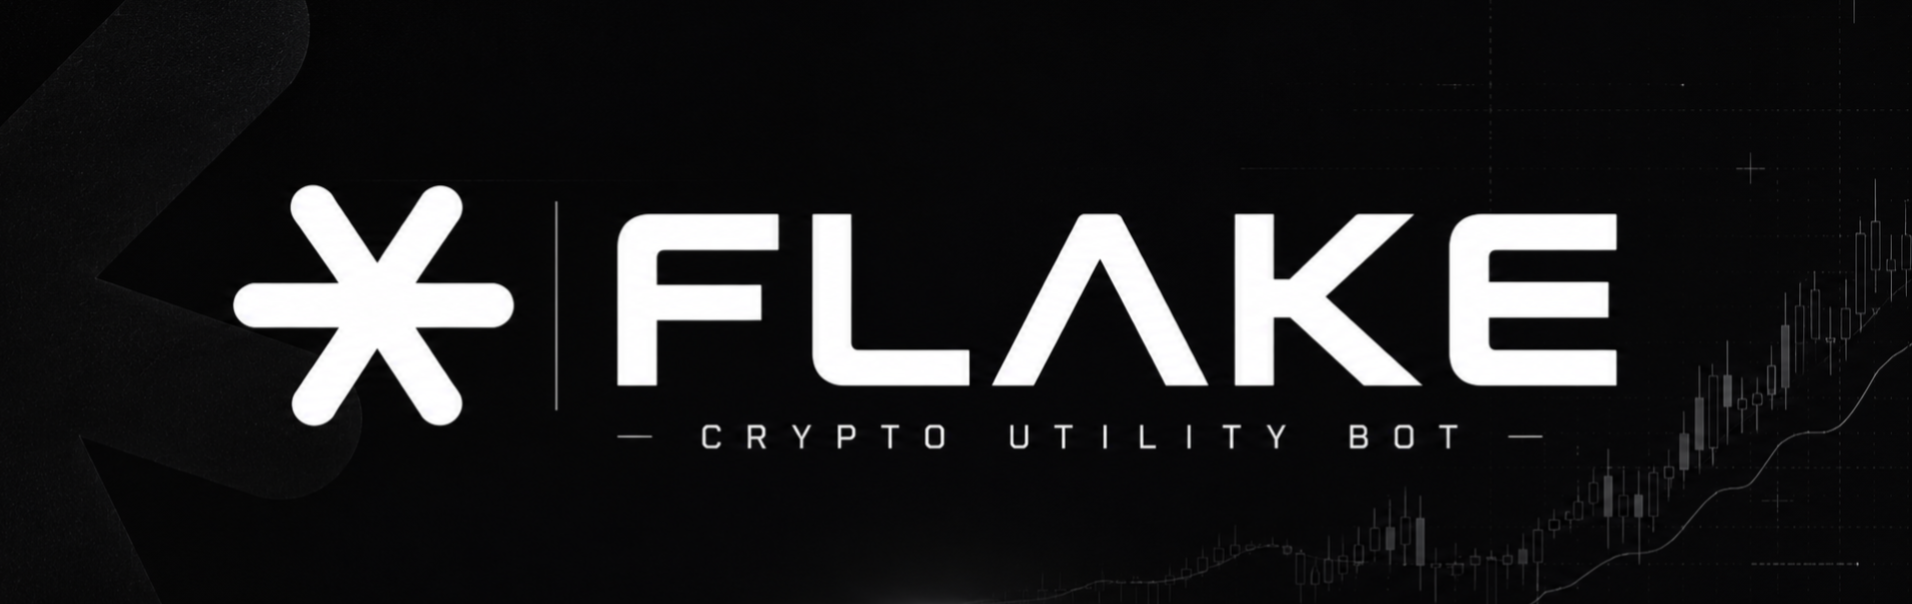
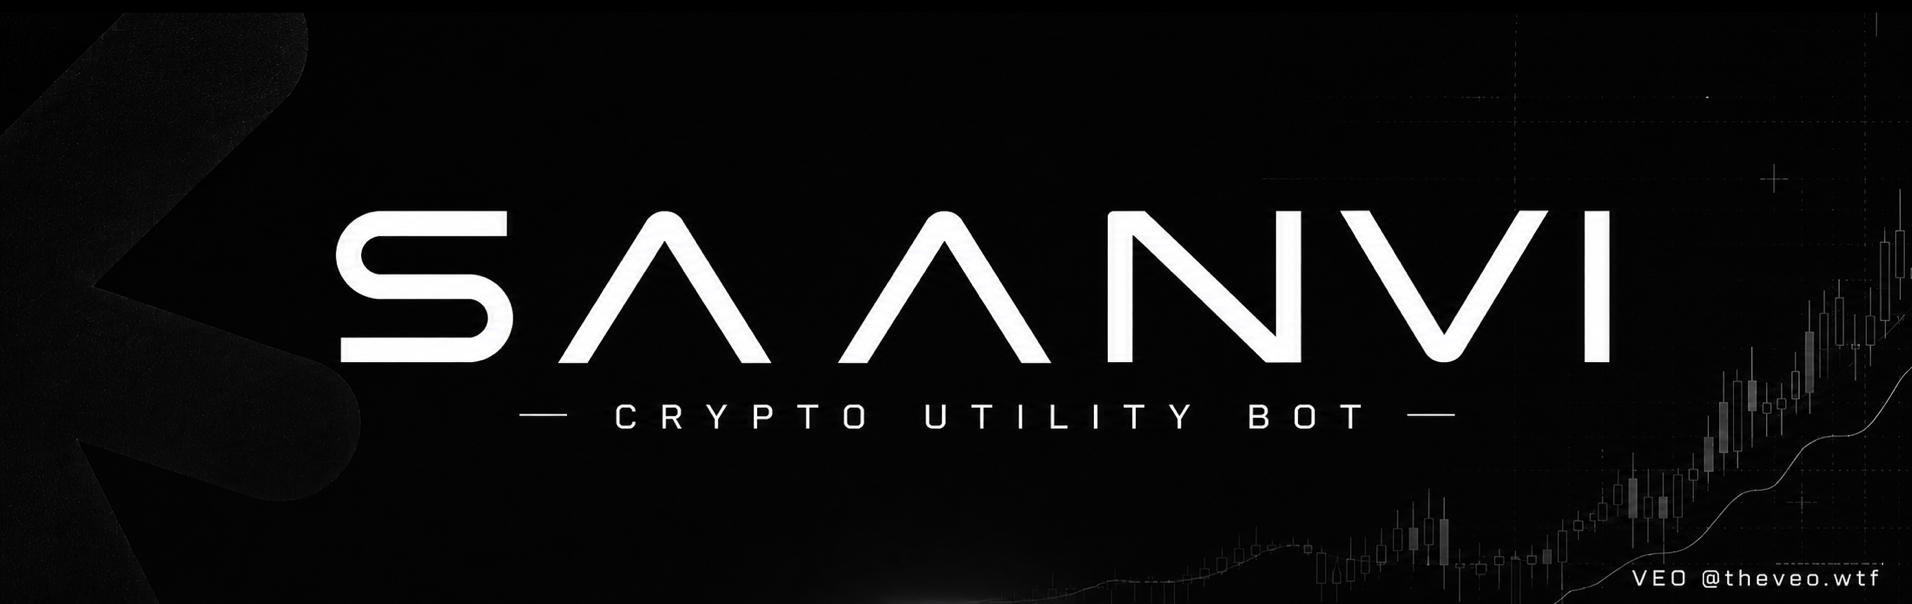
Pull commands update

Changed region(s): [[0.1234, 0.298, 0.864, 0.745], [0.7097, 0.3278, 1.0, 1.0], [0.9566, 0.6854, 0.9874, 0.7152]]

diff --git a/src/events/discord/guild/Prefixcmd.js b/src/events/discord/guild/Prefixcmd.js
@@ -1,12 +1,9 @@
 import {
         ContainerBuilder,
         TextDisplayBuilder,
-        ButtonBuilder,
-        ButtonStyle,
         MessageFlags,
         SeparatorBuilder,
         SeparatorSpacingSize,
-        ActionRowBuilder,
         MediaGalleryBuilder,
         MediaGalleryItemBuilder,
         AttachmentBuilder,
@@ -47,12 +44,6 @@ const mentionSeparator = new SeparatorBuilder()
         .setSpacing(SeparatorSpacingSize.Small)
         .setDivider(true);
 const mentionContent = new TextDisplayBuilder();
-const mentionButtons = new ActionRowBuilder().addComponents(
-        new ButtonBuilder()
-                .setLabel('Support')
-                .setURL(config.links?.supportServer || 'https://discord.gg')
-                .setStyle(ButtonStyle.Link),
-);
 
 const sendDM = async (user, title, description, client) => {
         if (!user || !title || !description || !client) return false;
@@ -200,7 +191,7 @@ const handleMentionOnly = async (message, client, guildPrefixes) => {
                 mentionContainer.components.length = 0;
                 mentionContainer.setAccentColor(0xffffff);
                 mentionContent.data.content =
-                        `${emoji?.string || ''} **Bot Supports** → \`/\`\n` +
+                        `${emoji?.string || ''} **Saanvi uses** → \`/\`\n` +
                         `-# For seeing all commands \`/help\``;
                 mentionContainer
                         .addMediaGalleryComponents(
@@ -208,8 +199,7 @@ const handleMentionOnly = async (message, client, guildPrefixes) => {
                                         new MediaGalleryItemBuilder().setURL('attachment://help_banner.png'),
                                 ),
                         )
-                        .addTextDisplayComponents(mentionContent)
-                        .addActionRowComponents(mentionButtons);
+                        .addTextDisplayComponents(mentionContent);
 
                 await message
                         .reply({

diff --git a/src/utils/permissionHandler.js b/src/utils/permissionHandler.js
@@ -239,14 +239,17 @@ export const validateCommand = async (ctx, command) => {
                         };
                 }
 
-                let member;
-                try {
-                        member = await guild.members.fetch(user.id);
-                } catch {
-                        return {
-                                valid: false,
-                                error: { title: 'Member Not Found', description: 'Could not fetch your member data.' },
-                        };
+                let member = ctx.interaction?.member || ctx.message?.member || null;
+
+                if (!member && guild.members?.fetch) {
+                        try {
+                                member = await guild.members.fetch(user.id);
+                        } catch {
+                                return {
+                                        valid: false,
+                                        error: { title: 'Member Not Found', description: 'Could not fetch your member data.' },
+                                };
+                        }
                 }
 
                 if (!member) {

diff --git a/src/commands/meta/invite.js b/src/commands/meta/invite.js
@@ -15,13 +15,13 @@ class InviteCommand extends Command {
 	constructor() {
 		super({
 			name: 'invite',
-			description: 'Invite Flake to your server or install as an app',
+			description: 'Invite Saanvi to your server or install as an app',
 			cooldown: 5,
 			enabledSlash: true,
 			shouldNotDefer: true,
 			slashData: {
 				name: 'invite',
-				description: 'Invite Flake to your server or install as an app',
+				description: 'Invite Saanvi to your server or install as an app',
 			},
 		});
 	}
@@ -31,7 +31,7 @@ class InviteCommand extends Command {
 			.setAccentColor(0xffffff)
 			.addTextDisplayComponents(
 				new TextDisplayBuilder().setContent(
-					'## Invite Me\n-# Use the buttons below to invite me to your server or install me as an application',
+					'## Invite Saanvi\n-# Use the buttons below to invite me to your server or install me as an application',
 				),
 			)
 			.addSeparatorComponents(

diff --git a/src/commands/meta/help.js b/src/commands/meta/help.js
@@ -77,12 +77,11 @@ const PAGES = [
         },
         {
                 title: '### Utility',
-                commands: ['ping', 'stats', 'invite', 'support'],
+                commands: ['ping', 'stats', 'invite'],
                 descriptions: {
                         ping:    'check websocket, database and average latency',
                         stats:   'view bot uptime, servers, users and command count',
-                        invite:  'invite Flake to your server or install as an app',
-                        support: 'get a link to the support server',
+                        invite:  'invite Saanvi to your server or install as an app',
                 },
         },
 ];

diff --git a/src/config/config.js b/src/config/config.js
@@ -16,11 +16,10 @@ export const config = {
                 warn: [255, 190, 120],
         },
         links: {
-                supportServer: 'https://discord.gg/aerox',
                 invite:  'https://discord.com/oauth2/authorize?client_id=1516858272814993469',
                 install: 'https://discord.com/oauth2/authorize?client_id=1516858272814993469&integration_type=1&scope=applications.commands',
         },
-        watermark: 'coded by itsfizys',
+        watermark: 'developer credits: VEO @theveo.wtf',
         version: '2.0.0',
 
         tatum: {

diff --git a/src/structures/classes/client.js b/src/structures/classes/client.js
@@ -19,8 +19,6 @@ export class Bot extends Client {
                         intents: [
                                 GatewayIntentBits.Guilds,
                                 GatewayIntentBits.GuildMessages,
-                                GatewayIntentBits.MessageContent,
-                                GatewayIntentBits.GuildMembers,
                         ],
                         partials: [],
                         allowedMentions: { parse: [], repliedUser: false },

diff --git a/src/commands/dev/pull.js b/src/commands/dev/pull.js
@@ -65,7 +65,7 @@ class PullCommand extends Command {
 
                 if (code === 0) {
                         await clearPullRestartState();
-                        return ctx.reply('Done. Code pulled and PM2 restarted.');
+                        return ctx.reply('<:Heart_Red:1538521542798082060> **DONE.** __**Code pulled and PM2 restarted.**__');
                 }
 
                 await clearPullRestartState();

diff --git a/README.md b/README.md
@@ -1,6 +1,6 @@
-# Flake
+# Saanvi
 
-A modular, self-hostable Discord bot built around cryptocurrency utilities. Flake provides live price tracking, on-chain balance lookups, transaction inspection, and payment profile management — all served through a clean Discord.js v14 interface with Components V2 UI.
+A modular, self-hostable Discord bot built around cryptocurrency utilities. Saanvi provides live price tracking, on-chain balance lookups, transaction inspection, and payment profile management — all served through a clean Discord.js v14 interface with Components V2 UI.
 
 ---
 
@@ -56,7 +56,6 @@ A modular, self-hostable Discord bot built around cryptocurrency utilities. Flak
 | `help`    | Browse all available commands                    |
 | `stats`   | View bot statistics and uptime                   |
 | `invite`  | Get the bot invite link and app install link     |
-| `support` | Get a link to the support server                 |
 
 ### Crypto
 
@@ -110,14 +109,14 @@ A modular, self-hostable Discord bot built around cryptocurrency utilities. Flak
 **1. Clone the repository**
 
 ```bash
-git clone https://github.com/itsfizys/Flake.git
-cd Flake
+git clone <your-saanvi-repository-url>
+cd Saanvi
 ```
 
 **2. Install dependencies**
 
 ```bash
-npm install
+pnpm install
 ```
 
 **3. Configure environment variables**
@@ -147,7 +146,7 @@ Slash commands are registered automatically on bot startup.
 **5. Start the bot**
 
 ```bash
-npm start
+pnpm start
 ```
 
 ---
@@ -155,7 +154,7 @@ npm start
 ## File Structure
 
 ```
-Flake/
+Saanvi/
 ├── src/
 │   ├── bot.js                          # Entry point, shutdown handling
 │   ├── assets/
@@ -183,7 +182,6 @@ Flake/
 │   │       ├── setpaypal.js           # Save PayPal username
 │   │       ├── setupi.js              # Save UPI ID
 │   │       ├── stats.js               # Bot statistics
-│   │       ├── support.js             # Support server link
 │   │       ├── tx.js                  # Transaction lookup
 │   │       └── upi.js                 # View saved UPI
 │   ├── config/
@@ -242,15 +240,7 @@ Flake/
 
 ## Credits
 
-Developed by **[itsfizys](https://github.com/itsfizys)**.
-
----
-
-## Support
-
-Join the **AeroX Development** server for help, updates, and feedback.
-
-**https://discord.gg/aerox**
+Developer credits: **VEO @theveo.wtf**.
 
 ---
 
